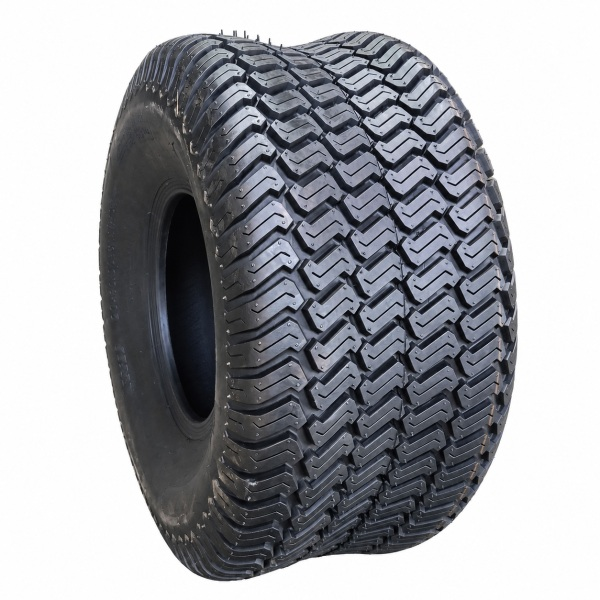
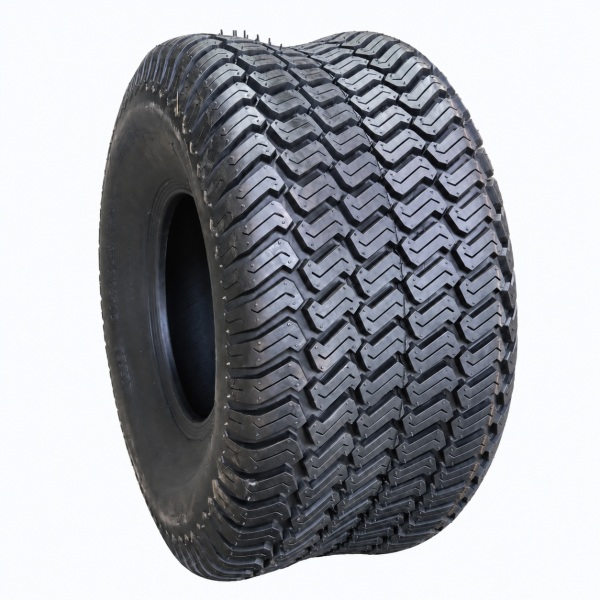
Lighten P332 background to near-white and match tread value

diff --git a/ops/production/update_p332_photo.py b/ops/production/update_p332_photo.py
@@ -11,7 +11,7 @@ from deploy_ftps import ROOT, PIN
 name = '__p332_' + secrets.token_hex(16) + '.php'
 token = secrets.token_hex(32)
 body = (ROOT / 'bin/update_p332_photo.php').read_text(encoding='utf-8')
-source = "<?php\nheader('Content-Type: application/json');\nheader('Cache-Control: no-store');\nif ($_SERVER['REQUEST_METHOD'] !== 'POST' || !hash_equals('" + token + "', (string)($_SERVER['HTTP_X_RUNNER_TOKEN'] ?? ''))) { http_response_code(403); exit; }\n" + body.removeprefix('<?php')
+source = "<?php\nheader('Content-Type: application/json');\nheader('Cache-Control: no-store');\nif ($_SERVER['REQUEST_METHOD'] !== 'POST' || !hash_equals('" + token + "', (string)($_SERVER['HTTP_X_RUNNER_TOKEN'] ?? ''))) { http_response_code(403); exit; }\ntry {\n" + body.removeprefix('<?php') + "\n} catch (Throwable $e) { echo json_encode(['ok'=>false,'error'=>$e->getMessage()]); }\n"
 connection = ['curl', '--fail', '--silent', '--show-error', '--ssl-reqd', '--tlsv1.2',
               '--cacert', str(ROOT / 'ops/production/grass-ftps.pem'), '--pinnedpubkey', PIN,
               '--ciphers', 'DEFAULT:@SECLEVEL=1', '--connect-timeout', '20', '--max-time', '120',
@@ -27,7 +27,7 @@ with tempfile.TemporaryDirectory() as directory:
     try:
         for folder in ('baseimg', 'mini'):
             transfer(['--ftp-create-dirs', '--upload-file', str(ROOT / 'resources/products/p332/p332-600.jpg'),
-                      'ftp://grass.gohost.ru:21//public/images/product/' + folder + '/p332-white-600-20261112.jpg'])
+                      'ftp://grass.gohost.ru:21//public/images/product/' + folder + '/p332-pale-blue-600-20261112.jpg'])
         transfer(['--upload-file', str(runner), 'ftp://grass.gohost.ru:21//public/' + name])
         request = urllib.request.Request('https://techtires.ru/' + name, data=b'', headers={'X-Runner-Token': token})
         with urllib.request.urlopen(request, timeout=90) as response:

diff --git a/bin/update_p332_photo.php b/bin/update_p332_photo.php
@@ -2,9 +2,9 @@
 require dirname(__DIR__).'/config/environment.php';
 $config=require dirname(__DIR__).'/config/config_db.php';
 $db=new PDO($config['dsn'],$config['user'],$config['pass'],[PDO::ATTR_ERRMODE=>PDO::ERRMODE_EXCEPTION,PDO::ATTR_DEFAULT_FETCH_MODE=>PDO::FETCH_ASSOC]);
-$rows=$db->query("SELECT DISTINCT p.id,p.name,p.alias,p.img FROM product p JOIN attribute_product ap ON ap.product_id=p.id JOIN attribute_value av ON av.id=ap.attr_id JOIN attribute_group ag ON ag.id=av.attr_group_id WHERE UPPER(TRIM(av.alias))='P332' AND ag.url_params='protect' ORDER BY p.id")->fetchAll();
+$rows=$db->query("SELECT DISTINCT p.id,p.name,p.alias,p.img FROM product p JOIN attribute_product ap ON ap.product_id=p.id JOIN attribute_value av ON av.id=ap.attr_id JOIN attribute_group ag ON ag.id=av.attr_group_id WHERE UPPER(TRIM(av.value))='P332' AND ag.url_params='protect' ORDER BY p.id")->fetchAll();
 if(!$rows) throw new RuntimeException('No P332 tread products found');
-$image='p332-white-600-20261112.jpg';
+$image='p332-pale-blue-600-20261112.jpg';
 foreach(['baseimg','mini'] as $dir) {
     $path=dirname(__DIR__).'/public/images/product/'.$dir.'/'.$image;
     if(!is_file($path) || getimagesize($path)[0]!==600 || getimagesize($path)[1]!==600) throw new RuntimeException('Missing 600x600 asset');
